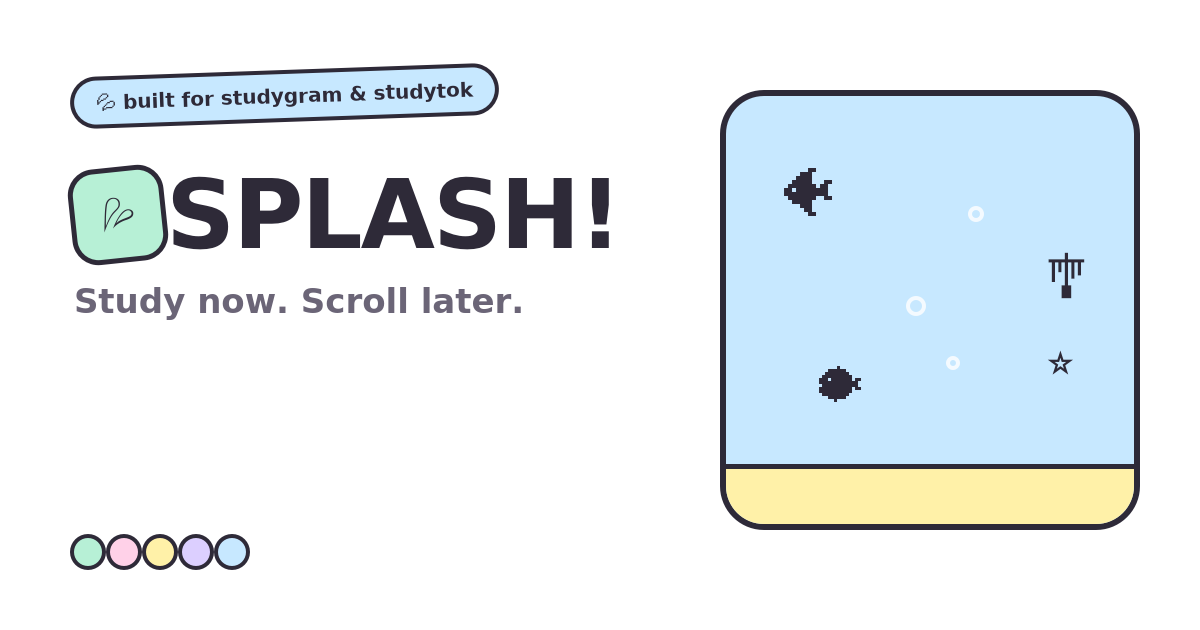
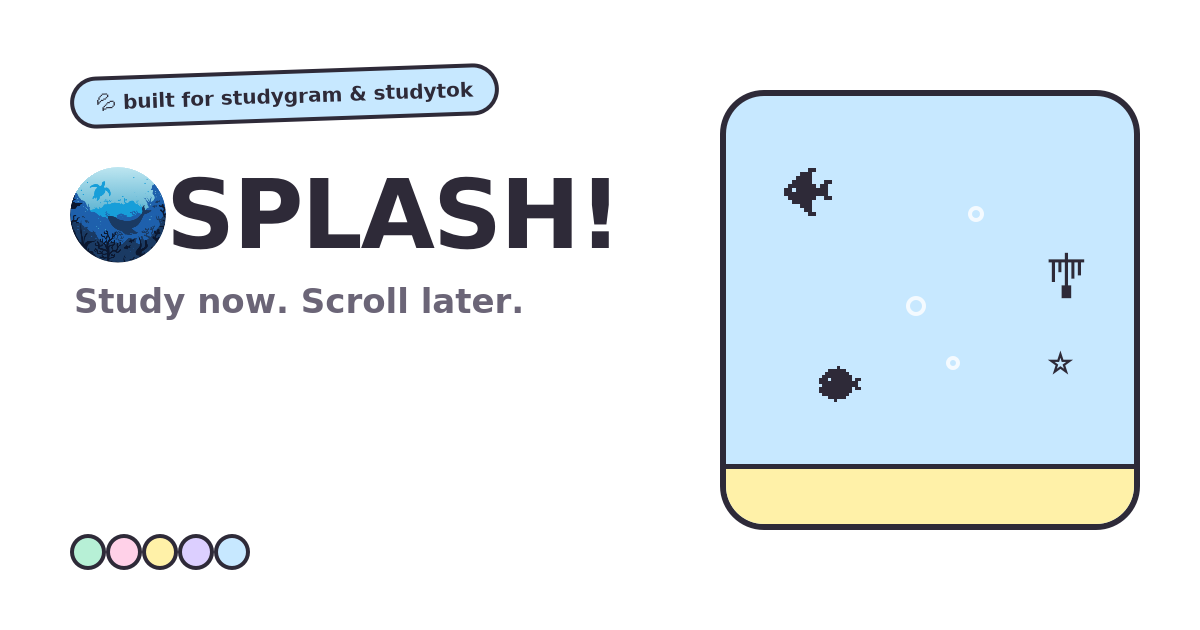
Add files via upload

Changed region(s): [[0.0308, 0.2413, 0.1542, 0.4222]]

diff --git a/index.html b/index.html
@@ -106,16 +106,15 @@
     font-weight:700;
   }
   .logo-mark{
-    width:34px; height:34px;
-    background:var(--mint);
-    border:3px solid var(--ink);
-    border-radius:10px;
+    width:38px; height:38px;
+    border-radius:50%;
+    overflow:hidden;
     display:flex;
     align-items:center;
     justify-content:center;
-    font-size:18px;
-    transform:rotate(-6deg);
+    flex-shrink:0;
   }
+  .logo-mark img{ width:100%; height:100%; object-fit:cover; }
   .nav-links{
     display:flex;
     gap:32px;
@@ -523,7 +522,7 @@
 <nav>
   <div class="nav-inner">
     <div class="logo">
-      <div class="logo-mark">💦</div>
+      <div class="logo-mark"><img src="splash-logo-icon.png" alt="SPLASH! logo"></div>
       SPLASH!
     </div>
     <div class="nav-links">
@@ -803,7 +802,7 @@
 
 <footer>
   <div class="wrap footer-inner">
-    <div>💦 SPLASH! — made for students, by students</div>
+    <div style="display:flex; align-items:center; gap:8px;"><img src="splash-logo-icon.png" alt="" style="width:20px; height:20px; border-radius:50%;"> SPLASH! — made for students, by students</div>
     <div class="footer-links">
       <a href="privacy.html">Privacy</a>
       <a href="mailto:[email redacted]">Support</a>